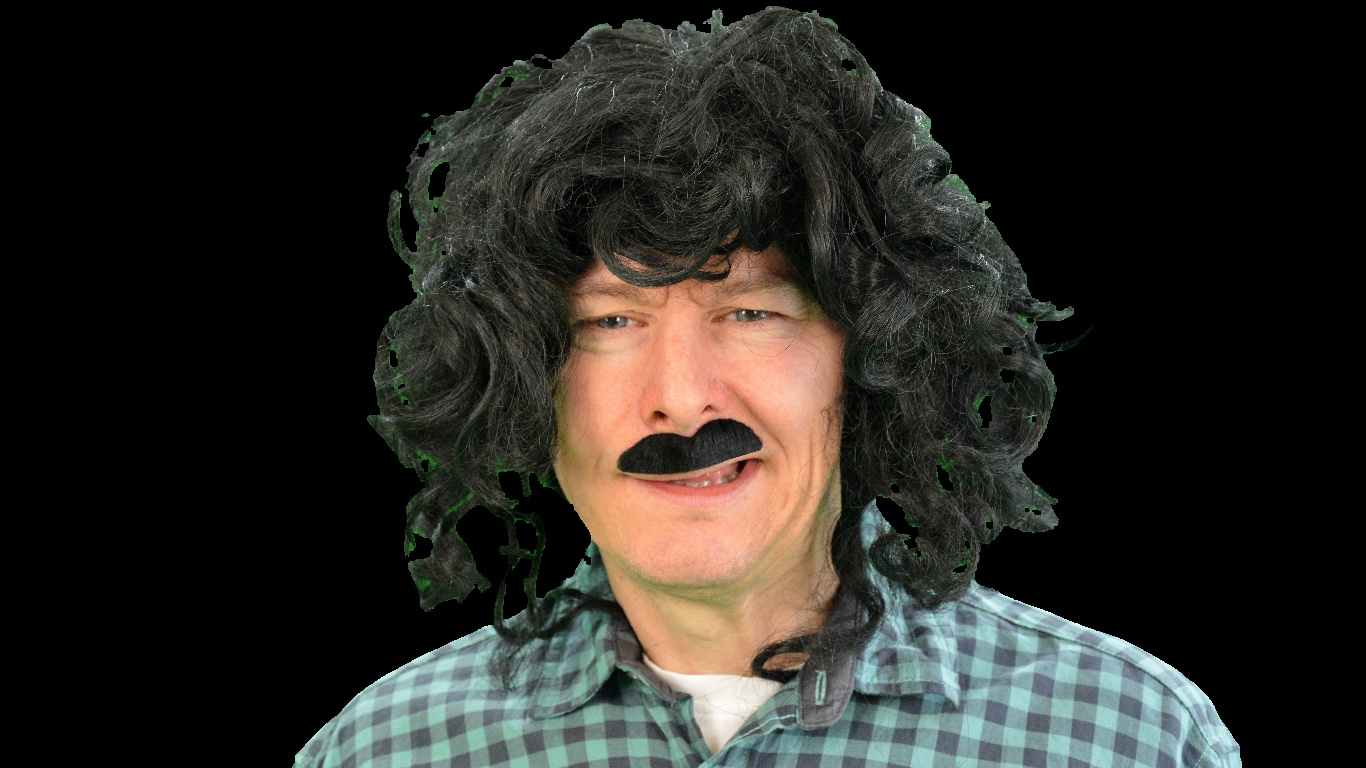
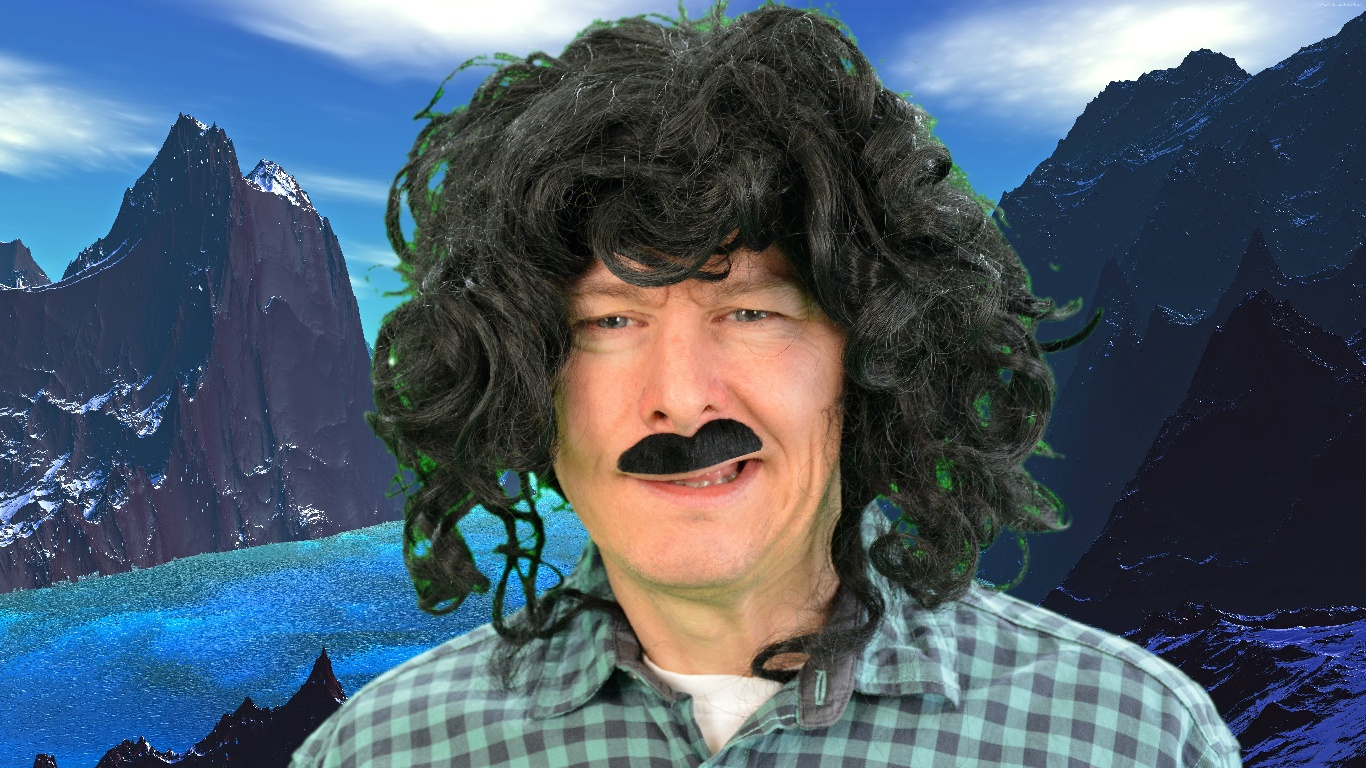
1. Addes bluring for edges. 2. Removes th most of "green thesholds".

diff --git a/Magic/magic.cpp b/Magic/magic.cpp
@@ -29,21 +29,23 @@ Mat remove_treshold(Mat im, int rude) {
 	int kernelSize = 3;
 	
 	Mat srcGray, cannyEdges, blurred;
-
-	erode(im, im, getStructuringElement(MORPH_RECT, Size(rude, rude)));
-	srcGray = im.clone();
+  
+  if (rude < 5) {
+	  erode(im, im, getStructuringElement(MORPH_RECT, Size(3, 3)));
+  }
+  srcGray = im.clone();
 	
-	blur(srcGray, cannyEdges, Size(rude - 2, rude - 2));
+	blur(srcGray, cannyEdges, Size(3, 3));
 	Canny(cannyEdges, cannyEdges, lowThreshold, lowThreshold * ratio, kernelSize);
 	
-	int dilation_size = 5;
+	int dilation_size = rude;// ... = 5
 	Mat element = getStructuringElement(MORPH_CROSS,
 	Size(2 * dilation_size + 1, 2 * dilation_size + 1),
 	Point(dilation_size, dilation_size));
 	
 	dilate(cannyEdges, cannyEdges, element);
 	im.copyTo(blurred);
-	blur(blurred, blurred, Size(rude - 1, rude - 1));
+	blur(blurred, blurred, Size(3, 3));
 	blurred.copyTo(im, cannyEdges);
   cerr << cannyEdges.type() << endl;
   namedWindow("kek");
@@ -70,7 +72,7 @@ Mat get_mask(const Mat im, const vector<Vec3b>& keys) {
   for (auto key : keys) {
     for (int i = 0; i < im.rows; ++i) {
       for (int j = 0; j < im.cols; ++j) {
-        if (dist(im.at<Vec3b>(i, j), key) < max(100, int(dst))) {
+        if (dist(im.at<Vec3b>(i, j), key) < max(64, int(dst))) {
           res.at<unsigned char>(i, j) = 0;
         }
       }
@@ -80,28 +82,53 @@ Mat get_mask(const Mat im, const vector<Vec3b>& keys) {
 }
 
 Mat solve(Mat im, Mat bg, Mat mask0, Mat mask1) {
-  vector<Mat> msk = {mask0, mask1, mask0};
-  vector<Mat> res(3), v, u;
-  split(im, v);
-  split(bg, u);
+  im.convertTo(im, CV_32FC3);
+  bg.convertTo(bg, CV_32FC3);
   
-  v[0].copyTo(res[0], msk[0]);
-  subtract(cv::Scalar::all(255), msk[0], msk[0]);
-  u[0].copyTo(res[0], msk[0]);
-  subtract(cv::Scalar::all(255), msk[0], msk[0]);
+  Mat alpha;
+  merge({mask0, mask1, mask0}, alpha);
+  alpha.convertTo(alpha, CV_32FC3, 1.0/255);
 
-  v[1].copyTo(res[1], msk[1]);
-  subtract(cv::Scalar::all(255), msk[1], msk[1]);
-  u[1].copyTo(res[1], msk[1]);
-  subtract(cv::Scalar::all(255), msk[1], msk[1]);
+  Mat res = Mat::zeros(im.size(), im.type());
+  multiply(alpha, im, im); 
+  multiply(Scalar::all(1.0)-alpha, bg, bg); 
+  add(im, bg, res);
+
+  res.convertTo(res, CV_8UC3, 1);
+  return res;
+
+  //  vector<Mat> msk = {mask0, mask1, mask0};
+  //  vector<Mat> res(3), v, u;
+  //  split(im, v);
+  //  split(bg, u);
+ 
+  //  for (int i = 0; i < 3; ++i) {
+  //    multiply(msk[i], CV_32FC1, 1.0 / 255)
+  //  }
+  //  v[3].copyTo(res[3], mask0);
+  //  res[0] = v[0].clone();
+  //  res[1] = v[1].clone();
+  //  res[2] = v[2].clone();
+
+  //v[0].copyTo(res[0], msk[0]);
+  //subtract(cv::Scalar::all(255), msk[0], msk[0]);
+  //u[0].copyTo(res[0], msk[0]);
+  //subtract(cv::Scalar::all(255), msk[0], msk[0]);
+
+  //v[1].copyTo(res[1], msk[1]);
+  //subtract(cv::Scalar::all(255), msk[1], msk[1]);
+  //u[1].copyTo(res[1], msk[1]);
+  //subtract(cv::Scalar::all(255), msk[1], msk[1]);
+  //
+  //v[2].copyTo(res[2], msk[0]);
+  //subtract(cv::Scalar::all(255), msk[0], msk[0]);
+  //u[2].copyTo(res[2], msk[0]);
+  //subtract(cv::Scalar::all(255), msk[0], msk[0]);
   
-  v[2].copyTo(res[2], msk[0]);
-  subtract(cv::Scalar::all(255), msk[0], msk[0]);
-  u[2].copyTo(res[2], msk[0]);
-  subtract(cv::Scalar::all(255), msk[0], msk[0]);
+  //  merge(res, im);
+  //  add(im, bg, im);
   
-  merge(res, im);
-  return im;
+  //  return im;
 }
 
 void equalize(Mat& im) {
@@ -126,29 +153,25 @@ void equalize(Mat& im) {
   //im.convertTo(im, -1, 4, -128);
 }
 
-void fit(Mat& im, Mat& bg) {
-  double imr = double(im.rows) / im.cols;
-  double bgr = double(bg.rows) / bg.cols;
+void fit(const Mat& a, Mat& b) {
+  double aa = double(a.rows) / a.cols;
+  double bb = double(b.rows) / b.cols;
   
-  bool transposed = false;
-  if (imr < bgr) {
-    transpose(im, im);
-    transpose(bg, bg);
-    transposed = true;
-  }
-  
-  double imScale = double(im.rows) / bg.rows;
-  if (imScale >= 1) {
-    resize(bg, bg, im.size(), 1.0 / imScale, 1.0 /imScale);
+  double scale;
+  if (aa > bb) {
+    scale = double(a.rows) / b.rows;
   } else {
-    resize(im, im, im.size(), imScale, imScale);
-    resize(im, im, im.size(), 1.0, 1.0);
+    scale = double(a.cols) / b.cols;
   }
 
-  if (transposed) {
-    transpose(im, im);
-    transpose(bg, bg);
+  Mat res = Mat::zeros(a.size(), a.type());
+  for (int i = 0; i < res.rows; ++i) {
+    for (int j = 0; j < res.cols; ++j) {
+      res.at<Vec3b>(i, j) =
+        b.at<Vec3b>((i - a.rows / 2) / scale + b.rows / 2, (j - a.cols / 2) / scale + b.cols / 2);
+    }
   }
+  swap(b, res);
 }
 
 int main(int argc, char* argv[]) {
@@ -160,19 +183,34 @@ int main(int argc, char* argv[]) {
   getline(cin, bgname);
   Mat bg = imread("TestData/"+bgname);
   fit(im, bg);
+  
+  /*
+  namedWindow("kek");
+  imshow("kek", im);
+  waitKey(0);
+  destroyWindow("kek");
+
+  namedWindow("kek");
+  imshow("kek", bg);
+  waitKey(0);
+  destroyWindow("kek");
+  */
 
   Mat for_mask = im.clone();
-  equalize(for_mask);
+  //equalize(for_mask);
   adaptiveBilateralFilter(im, for_mask, Size(5, 5), 150);
   
   vector<Vec3b> keys = get_keys(for_mask);
 	Mat mask = get_mask(for_mask, keys);
   
   Mat res = solve(im, bg, remove_treshold(mask, 5),
-                          remove_treshold(mask, 7));
+
+                          remove_treshold(mask, 2));
+  waitKey(0);
+  destroyWindow("kek");
   
   namedWindow("kek");
-  imwrite("TestData/res.png", res);
+  imwrite("TestData/res.jpg", res);
   imshow("kek", res);
   waitKey(0);
   destroyWindow("kek");
